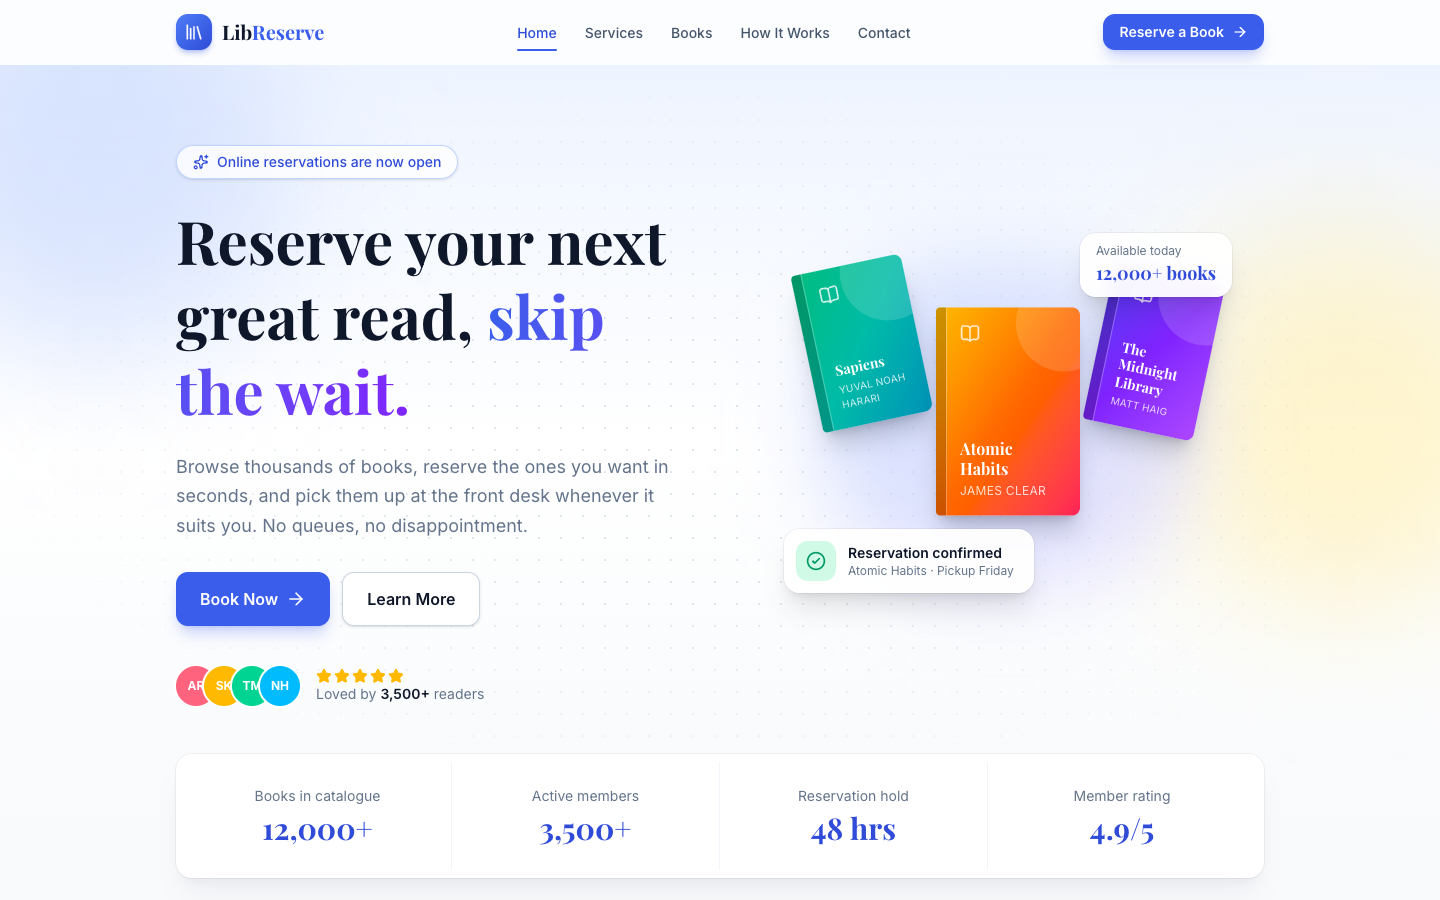
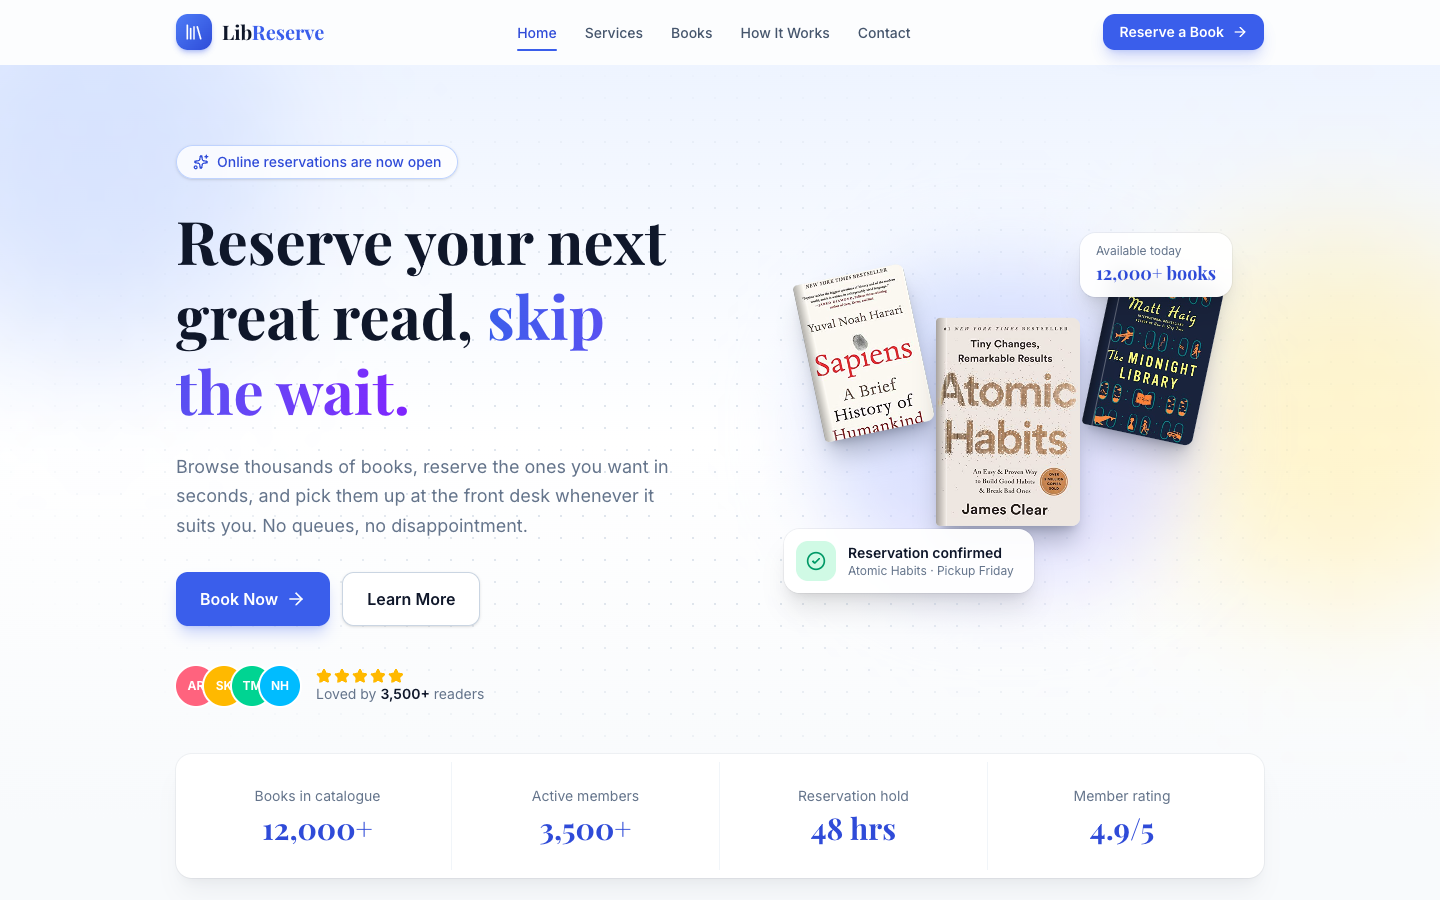
Use real book cover images in UI
Replaced CSS-generated gradient covers with real JPG cover assets served from `public/covers`. Updated `books` data from `cover` to `image`, refactored `BookCover` to render `<img>` with spine styling, and adjusted all consumers (`BookCard`, `BookPreview`, `ReservationSuccess`) to pass the new prop. README copy and screenshots were refreshed to match the new visual presentation.

Changed region(s): [[0.5312, 0.28, 0.8438, 0.5911]]

diff --git a/src/data/books.js b/src/data/books.js
@@ -1,6 +1,6 @@
 // The library catalogue. Books with `featured: true` are shown on the Home page;
 // every book appears in the reservation form's dropdown.
-// `cover` holds the Tailwind gradient classes used to draw each book cover.
+// `image` points to a cover image in public/covers (covers from the Open Library Covers API).
 export const books = [
   {
     id: 'midnight-library',
@@ -12,7 +12,7 @@ export const books = [
     copies: 3,
     description:
       'Between life and death there is a library, and every book offers a chance to try another life you could have lived.',
-    cover: 'from-indigo-600 via-violet-600 to-purple-500',
+    image: '/covers/midnight-library.jpg',
   },
   {
     id: 'atomic-habits',
@@ -24,7 +24,7 @@ export const books = [
     copies: 5,
     description:
       'A practical guide to building good habits and breaking bad ones through tiny changes that add up to remarkable results.',
-    cover: 'from-amber-400 via-orange-500 to-rose-500',
+    image: '/covers/atomic-habits.jpg',
   },
   {
     id: 'sapiens',
@@ -36,7 +36,7 @@ export const books = [
     copies: 2,
     description:
       'A brief history of humankind, from the first humans to walk the earth to the breakthroughs of the modern age.',
-    cover: 'from-emerald-500 via-teal-500 to-cyan-600',
+    image: '/covers/sapiens.jpg',
   },
   {
     id: 'clean-code',
@@ -48,7 +48,7 @@ export const books = [
     copies: 0,
     description:
       'A handbook of agile software craftsmanship that teaches you to write code that is easy to read, change, and maintain.',
-    cover: 'from-sky-500 via-blue-600 to-indigo-700',
+    image: '/covers/clean-code.jpg',
   },
   {
     id: 'mockingbird',
@@ -59,7 +59,7 @@ export const books = [
     rating: 4.8,
     copies: 4,
     description: 'A story of justice and growing up in a small Southern town, told through the eyes of young Scout Finch.',
-    cover: 'from-stone-600 via-stone-700 to-neutral-800',
+    image: '/covers/mockingbird.jpg',
   },
   {
     id: 'brief-history-of-time',
@@ -70,7 +70,7 @@ export const books = [
     rating: 4.6,
     copies: 2,
     description: 'From the Big Bang to black holes, a clear introduction to the biggest questions about our universe.',
-    cover: 'from-slate-800 via-indigo-900 to-violet-900',
+    image: '/covers/brief-history-of-time.jpg',
   },
   {
     id: 'alchemist',
@@ -81,7 +81,7 @@ export const books = [
     rating: 4.4,
     copies: 6,
     description: 'A young shepherd travels from Spain to Egypt in search of treasure, and finds his purpose along the way.',
-    cover: 'from-yellow-500 via-amber-600 to-orange-700',
+    image: '/covers/alchemist.jpg',
   },
   {
     id: 'deep-work',
@@ -92,7 +92,7 @@ export const books = [
     rating: 4.5,
     copies: 1,
     description: 'Rules for focused success in a distracted world, and how to train your mind to concentrate deeply.',
-    cover: 'from-red-600 via-rose-700 to-pink-800',
+    image: '/covers/deep-work.jpg',
   },
 ]
 

diff --git a/src/components/ui/BookCover.jsx b/src/components/ui/BookCover.jsx
@@ -1,29 +1,23 @@
-import { BookOpen } from 'lucide-react'
-
 const sizes = {
-  sm: { box: 'h-40 w-28', title: 'text-sm', author: 'text-[10px]' },
-  md: { box: 'h-52 w-36', title: 'text-base', author: 'text-xs' },
+  sm: 'h-40 w-28',
+  md: 'h-52 w-36',
 }
 
-// A book cover drawn with CSS, so no image files are needed.
-export default function BookCover({ title, author, cover, size = 'md', className = '' }) {
-  const s = sizes[size]
-
+// A book cover image with a subtle spine shadow so it looks like a real book.
+export default function BookCover({ title, author, image, size = 'md', className = '' }) {
   return (
     <div
-      className={`relative flex flex-col justify-between overflow-hidden rounded-l-sm rounded-r-lg bg-linear-to-br p-4 pl-6 text-white shadow-xl shadow-slate-900/20 ${cover} ${s.box} ${className}`}
+      className={`relative overflow-hidden rounded-l-sm rounded-r-lg bg-slate-200 shadow-xl shadow-slate-900/25 ${sizes[size]} ${className}`}
     >
-      {/* Spine shadow on the left edge */}
-      <div className="absolute inset-y-0 left-0 w-2.5 bg-black/20" />
-      <div className="absolute inset-y-0 left-2.5 w-px bg-white/30" />
-      {/* Soft light circle for depth */}
-      <div className="absolute -top-8 -right-8 size-24 rounded-full bg-white/15" />
-
-      <BookOpen className="relative size-5 opacity-80" aria-hidden="true" />
-      <div className="relative">
-        <p className={`font-display leading-tight font-bold ${s.title}`}>{title}</p>
-        <p className={`mt-1 tracking-wide uppercase opacity-80 ${s.author}`}>{author}</p>
-      </div>
+      <img
+        src={image}
+        alt={`Cover of ${title} by ${author}`}
+        loading="lazy"
+        className="size-full object-cover"
+      />
+      {/* Spine shadow and highlight on the left edge */}
+      <div className="absolute inset-y-0 left-0 w-2.5 bg-linear-to-r from-black/30 to-transparent" aria-hidden="true" />
+      <div className="absolute inset-y-0 left-2.5 w-px bg-white/30" aria-hidden="true" />
     </div>
   )
 }

diff --git a/src/components/home/BookCard.jsx b/src/components/home/BookCard.jsx
@@ -3,7 +3,7 @@ import { Star } from 'lucide-react'
 import BookCover from '../ui/BookCover.jsx'
 import Button from '../ui/Button.jsx'
 
-export default function BookCard({ id, title, author, genre, rating, copies, description, cover }) {
+export default function BookCard({ id, title, author, genre, rating, copies, description, image }) {
   const available = copies > 0
 
   return (
@@ -15,7 +15,7 @@ export default function BookCard({ id, title, author, genre, rating, copies, des
       {/* Cover area */}
       <div className="grid place-items-center bg-linear-to-br from-slate-50 to-slate-100 py-8">
         <div className="transition-transform duration-500 group-hover:scale-105 group-hover:-rotate-3">
-          <BookCover title={title} author={author} cover={cover} />
+          <BookCover title={title} author={author} image={image} />
         </div>
       </div>
 

diff --git a/src/components/reserve/ReservationSuccess.jsx b/src/components/reserve/ReservationSuccess.jsx
@@ -68,7 +68,7 @@ export default function ReservationSuccess({ data, onNewReservation }) {
         <h3 className="text-sm font-semibold text-ink">Reservation summary</h3>
         <div className="mt-5 flex flex-col gap-8 sm:flex-row">
           <div className="flex justify-center sm:block">
-            <BookCover title={book.title} author={book.author} cover={book.cover} />
+            <BookCover title={book.title} author={book.author} image={book.image} />
           </div>
           <dl className="grid flex-1 gap-x-6 gap-y-5 sm:grid-cols-2">
             <SummaryItem label="Full name" value={data.fullName} />

diff --git a/src/components/reserve/BookPreview.jsx b/src/components/reserve/BookPreview.jsx
@@ -34,7 +34,7 @@ export default function BookPreview({ bookId, copies, format, pickupDate, return
                 exit={{ opacity: 0, rotate: 8, scale: 0.9 }}
                 transition={{ type: 'spring', stiffness: 260, damping: 20 }}
               >
-                <BookCover title={book.title} author={book.author} cover={book.cover} />
+                <BookCover title={book.title} author={book.author} image={book.image} />
               </motion.div>
             ) : (
               <motion.div

diff --git a/README.md b/README.md
@@ -21,7 +21,7 @@ The first thing a visitor sees: a clear headline, a primary **Book Now** button 
 
 ### 2. Featured books
 
-Cards for popular books, each with a cover, genre, rating, short description, live availability, and a **Reserve** button. Clicking **Reserve** opens the form with that book already selected. Books with no copies left offer a waitlist instead.
+Cards for popular books, each with a real cover image, genre, rating, short description, live availability, and a **Reserve** button. Clicking **Reserve** opens the form with that book already selected. Books with no copies left offer a waitlist instead.
 
 ![Featured books section](docs/screenshots/2-featured-books.png)
 
@@ -180,7 +180,7 @@ The layout adapts to mobile, tablet, and desktop screens using Tailwind's respon
 library-reservation/
 ├── index.html              # HTML entry point, loads Google Fonts
 ├── vite.config.js          # Vite config with the React and Tailwind plugins
-├── public/                 # Static files served as-is (favicon)
+├── public/                 # Static files served as-is (favicon, covers/ book images)
 ├── docs/screenshots/       # Images used in this README
 └── src/
     ├── main.jsx            # Mounts the app inside BrowserRouter
@@ -198,7 +198,7 @@ library-reservation/
     │   │   ├── SectionHeading.jsx
     │   │   ├── Reveal.jsx      # Fade-up on scroll (Framer Motion)
     │   │   ├── PageTransition.jsx
-    │   │   ├── BookCover.jsx   # CSS-drawn book cover
+    │   │   ├── BookCover.jsx   # Cover image with a book-spine shadow
     │   │   └── SocialIcons.jsx
     │   ├── home/           # Sections of the Home page
     │   │   ├── Hero.jsx
